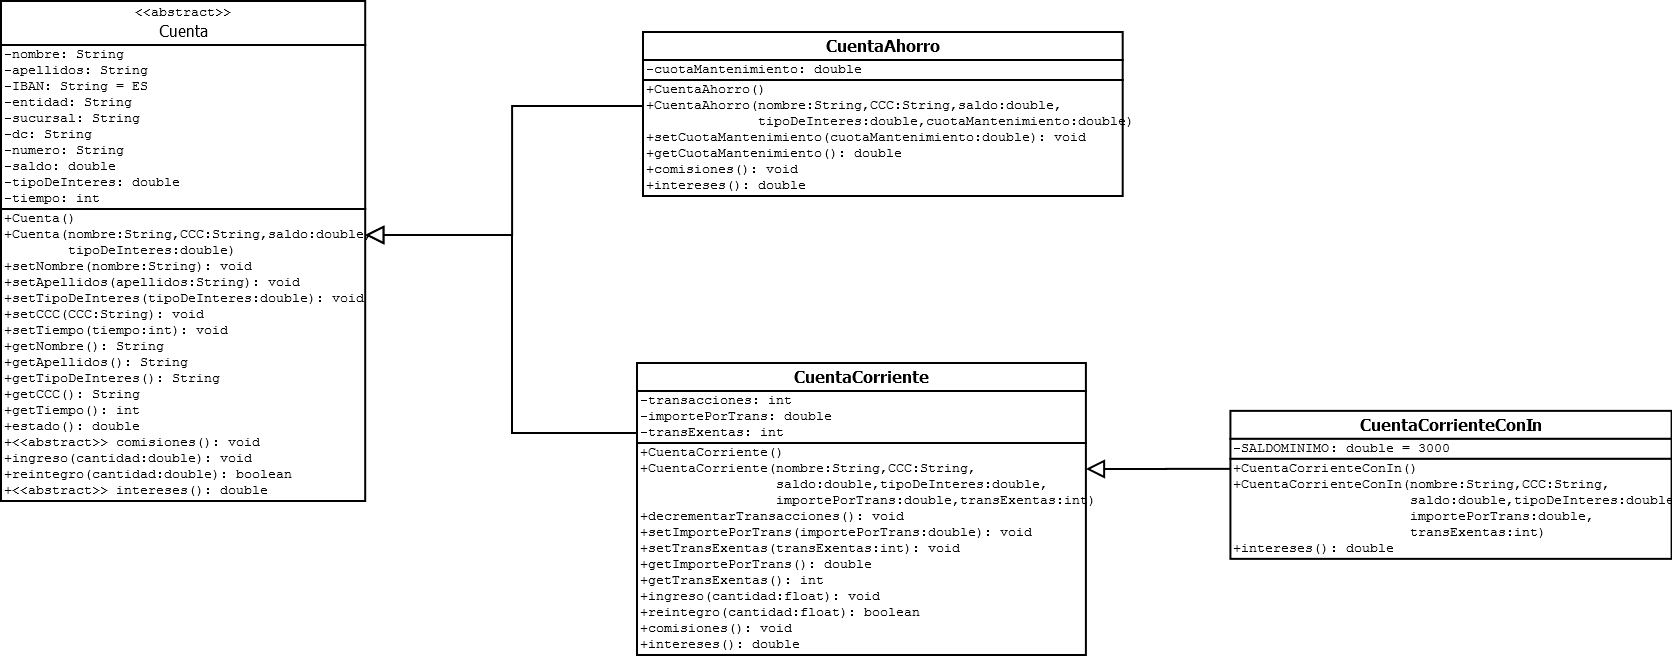
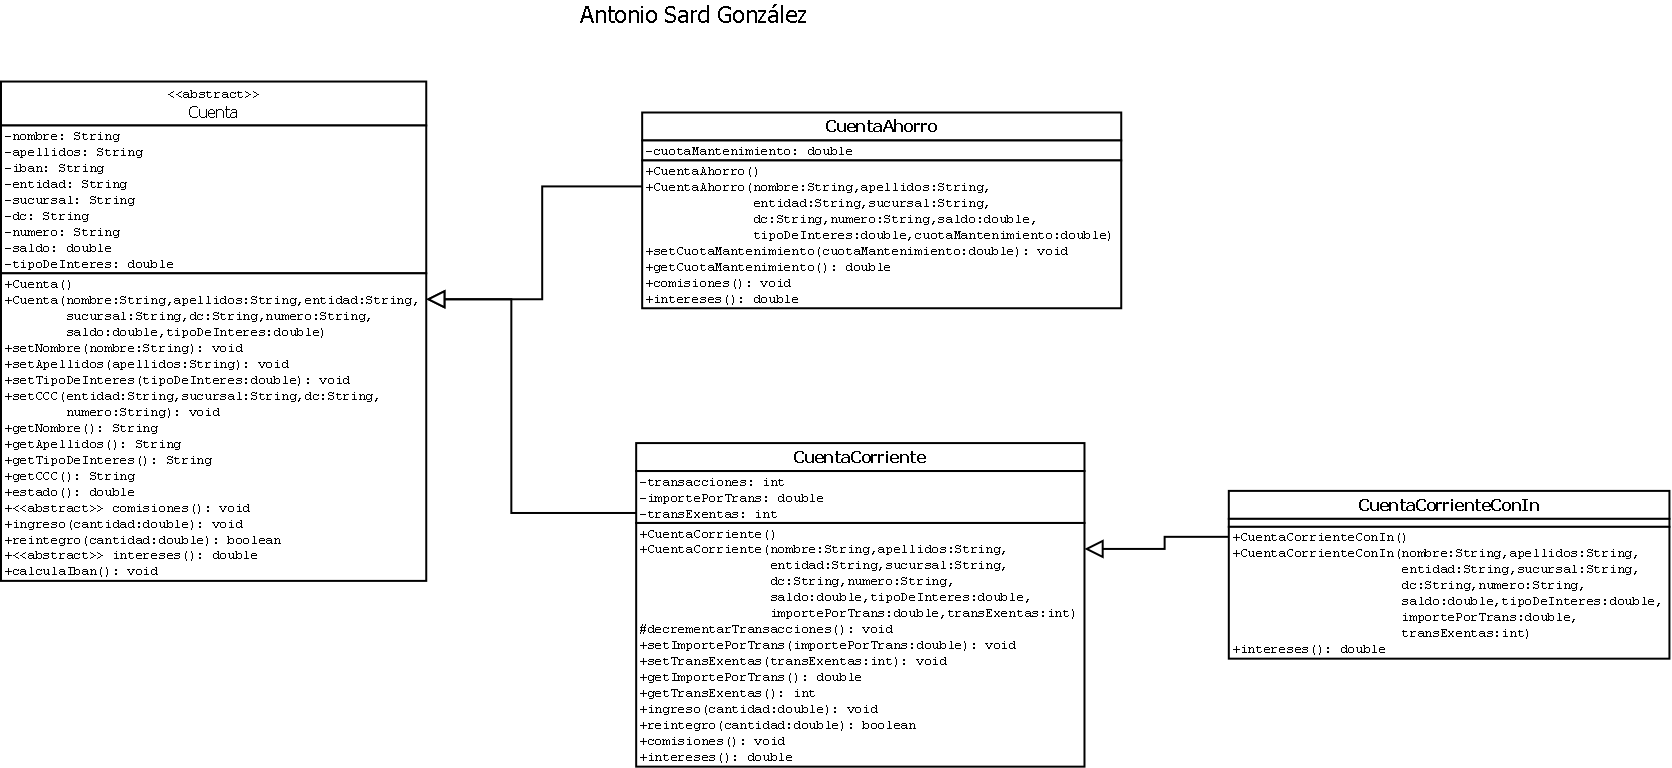
To implement bank acc diagrams

diff --git a/3ºTrimestre/src/Cuenta.java b/3ºTrimestre/src/Cuenta.java
@@ -5,26 +5,26 @@
  */
 public abstract class Cuenta {
     //Atributos:
-    private String nombre, apellidos, entidad, sucursal, dc, numero;
-    private final String IBAN = "ES";
+
+    private String nombre, apellidos, entidad, sucursal, dc, numero, iban;
     private double tipoDeInteres, saldo;
-    private int tiempo;
-    
+
     //Constructores:
     public Cuenta() {
     }
 
-    public Cuenta(String nombre, String CCC, double saldo, double tipoDeInteres) {
+    public Cuenta(String nombre, String apellidos, String entidad, String sucursal, String dc, String numero, 
+            double saldo, double tipoDeInteres) {
         this.nombre = nombre;
-        CCC = CCC.trim().replaceAll(" +", "");
-        this.entidad = CCC.substring(0, 4);
-        this.sucursal = CCC.substring(4, 8);
-        this.dc = CCC.substring(8, 10);
-        this.numero = CCC.substring(10);
+        this.apellidos = apellidos;
+        this.entidad = entidad;
+        this.sucursal = sucursal;
+        this.dc = dc;
+        this.numero = numero;
         this.saldo = saldo;
         this.tipoDeInteres = tipoDeInteres;
     }
-    
+
     //Métodos:
     /**
      * @return the nombre
@@ -67,23 +67,9 @@ public abstract class Cuenta {
     public void setTipoDeInteres(double tipoDeInteres) {
         this.tipoDeInteres = tipoDeInteres;
     }
-    
-    /**
-     * @return the tiempo
-     */
-    public int getTiempo() {
-        return tiempo;
-    }
-
-    /**
-     * @param tiempo the tiempo to set
-     */
-    public void setTiempo(int tiempo) {
-        this.tiempo = tiempo;
-    }
 
     public String getCCC() {
-        return IBAN + entidad + sucursal + dc + numero;
+        return iban;
     }
 
     public void setCCC(String CCC) {
@@ -92,6 +78,10 @@ public abstract class Cuenta {
         this.sucursal = CCC.substring(4, 8);
         this.dc = CCC.substring(8, 10);
         this.numero = CCC.substring(10);
+    }
+    
+    public void calculaIban(){
+        
     }
 
     public double estado() {
@@ -116,6 +106,4 @@ public abstract class Cuenta {
     }
 
     public abstract double intereses();
-
-    
 }

diff --git a/3ºTrimestre/src/CuentaAhorro.java b/3ºTrimestre/src/CuentaAhorro.java
@@ -14,9 +14,9 @@ public class CuentaAhorro extends Cuenta {
     public CuentaAhorro() {
     }
 
-    public CuentaAhorro(String nombre, String CCC, double saldo, double tipoDeInteres,
-            double cuotaMantenimiento) {
-        super(nombre, CCC, saldo, tipoDeInteres);
+    public CuentaAhorro(String nombre, String apellidos, String entidad, String sucursal, String dc, String numero,
+            double saldo, double tipoDeInteres, double cuotaMantenimiento) {
+        super(nombre, apellidos, entidad, sucursal, dc, numero, saldo, tipoDeInteres);
         this.cuotaMantenimiento = cuotaMantenimiento;
     }
 
@@ -50,11 +50,13 @@ public class CuentaAhorro extends Cuenta {
     public double intereses() {
         //Entorno:
         GregorianCalendar date;
+        double importe;
         //Algoritmo:
         date = new GregorianCalendar();
+        importe = 0;
         if (date.get(GregorianCalendar.DAY_OF_MONTH) == 1) {
-            setTiempo(getTiempo() + 1);          
+            importe = getTipoDeInteres() / 12 * estado();
         }
-        return (estado() + getTipoDeInteres() + getTiempo()) / 1200;
+        return importe;
     }
 }

diff --git a/3ºTrimestre/src/CuentaCorrienteConIn.java b/3ºTrimestre/src/CuentaCorrienteConIn.java
@@ -24,18 +24,12 @@ public class CuentaCorrienteConIn extends CuentaCorriente {
     public double intereses() {
         //Entorno:
         GregorianCalendar date;
-        double importe, interes;
+        double importe;
         //Algoritmo:
         date = new GregorianCalendar();
         importe = 0;
         if (date.get(GregorianCalendar.DAY_OF_MONTH) == 1 && estado() >= SALDOMINIMO) {
-            setTiempo(getTiempo() + 1);
-            interes = getTipoDeInteres();
-            if (estado() <= 3000) {
-                importe += (estado() + 0.5 + getTiempo()) / 1200;
-            }else{
-                importe += (estado() + interes + getTiempo()) / 1200;
-            }//Fin Si            
+            importe = getTipoDeInteres()/12 * estado();         
         }//Fin Si
         return importe;
     }

diff --git a/3ºTrimestre/src/CuentaCorriente.java b/3ºTrimestre/src/CuentaCorriente.java
@@ -83,17 +83,15 @@ public class CuentaCorriente extends Cuenta{
     public double intereses(){
         //Entorno:
         GregorianCalendar date;
-        double importe, interes;
+        double importe;
         //Algoritmo:
         date = new GregorianCalendar();
         importe = 0;
         if (date.get(GregorianCalendar.DAY_OF_MONTH) == 1) {
-            setTiempo(getTiempo() + 1);
-            interes = getTipoDeInteres();
             if(estado() <= 3000){
-                importe += (estado() + 0.5 + getTiempo()) / 1200;
+                importe = 0.5/12 * estado();
             } else {
-                importe += (estado() + interes + getTiempo()) / 1200;
+                importe = getTipoDeInteres()/12 * estado();
             }//Fin Si            
         }//Fin Si
         return importe;

diff --git a/3ºTrimestre/src/pruebaCuentas.java b/3ºTrimestre/src/pruebaCuentas.java
@@ -1,0 +1,21 @@
+
+/**
+ *
+ * @author Antonio Sard González
+ */
+public class pruebaCuentas {
+
+    public static void main(String[] args) {
+        //Entorno:
+        Cuenta cuenta;
+        CuentaAhorro ahorro;
+        String nombre, CCC;
+        double saldo, tipoDeInteres, cuotaMantenimiento;
+        CuentaCorriente corriente;
+        CuentaCorrienteConIn corrienteInc;
+        //Algoritmo:
+//        cuenta = new Cuenta();
+        ahorro = new CuentaAhorro();
+        
+    }//Fin Programa
+}
